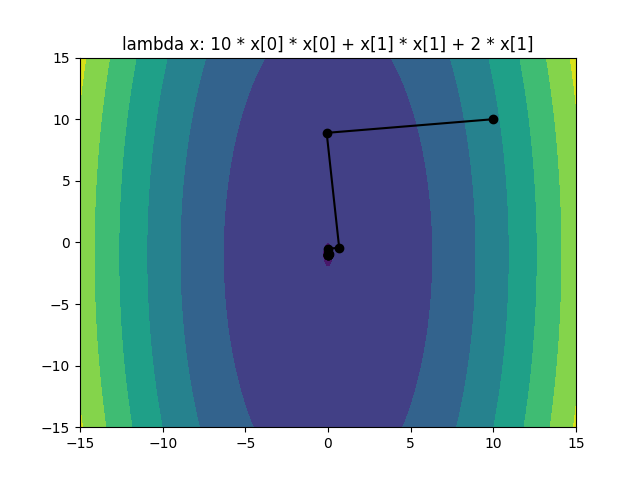
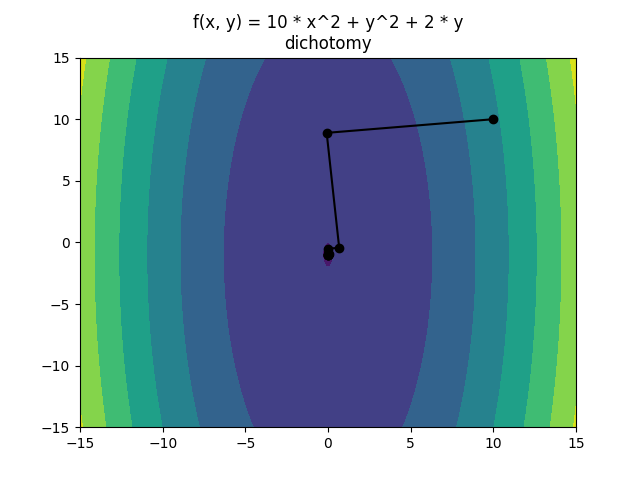
fix title for trajectory

Changed region(s): [[0.1875, 0.0312, 0.8438, 0.125]]

diff --git a/lab1/trajectory.py b/lab1/trajectory.py
@@ -17,6 +17,9 @@ def makeData(func, x_range):
 all_f = ["lambda x: x[0]*x[0] + x[1]*x[1]",
          "lambda x: 10 * x[0] * x[0] + x[1] * x[1] + 2 * x[1]",
          "lambda x: x[0] * x[0] + 20 * x[1] * x[1]"]
+f_titles = ["f(x,y) = x^2 + y^2",
+            "f(x, y) = 10 * x^2 + y^2 + 2 * y",
+            "f(x, y) = x^2 + 20 * y^2"]
 start = [np.array([10., 10.]), np.array([10., 10.]), np.array([10, 10.])]
 x_ranges = [[np.arange(-15, 15.05, 0.05), np.arange(-15, 15.05, 0.05)],
             [np.arange(-15, 15.05, 0.05), np.arange(-15, 15.05, 0.05)],
@@ -36,6 +39,6 @@ for i in range(len(all_f)):
         x0_history = list(map(lambda t: t[0], gradient.get_points()))
         x1_history = list(map(lambda t: t[1], gradient.get_points()))
         pylab.plot(x0_history, x1_history, '-ko')
-        pylab.title(f)
+        pylab.title(f_titles[i] + "\n" + method_constructor.name())
         pylab.savefig("results/trajectory_%s_%s.png" % (method_constructor.name(), i))
         pylab.close()
